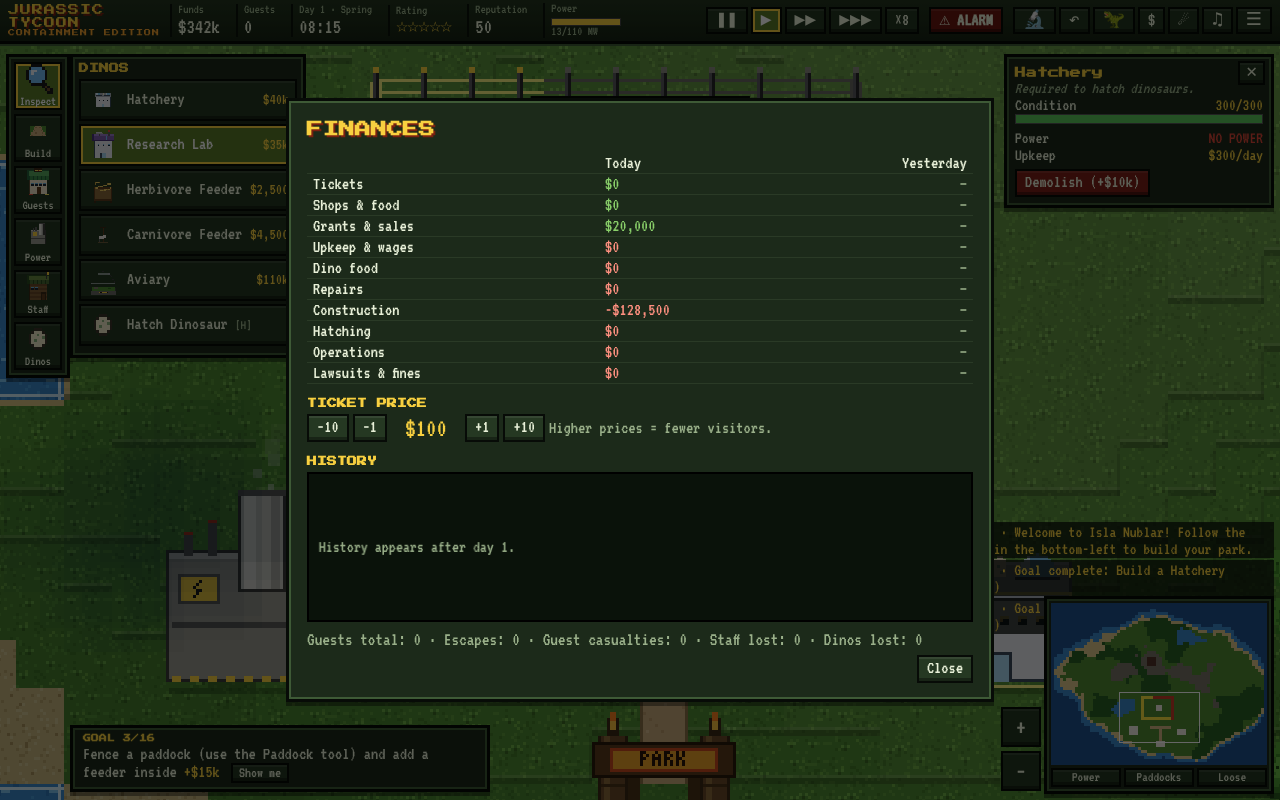
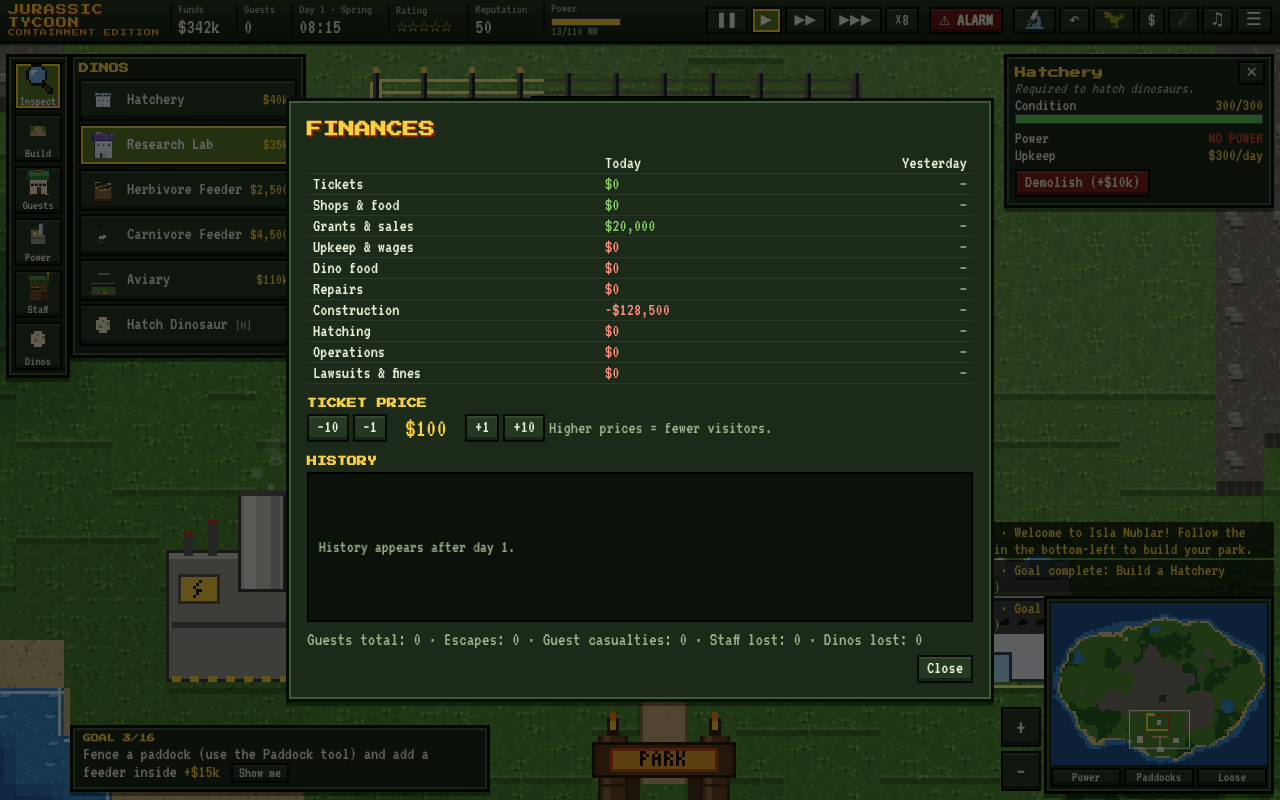
Bigger islands: Small / Medium / Large map sizes
New islands default to Medium (96x72, about 1.8x the old area), with
Small (the original 72x54) and Large (128x96) on the New Island menu.
Scenarios and the tutorial keep the size they were balanced on. Saves
record the size; old saves load as Small. Earthquakes scale their fence
hits with island area.

Touch: only the map captures touch gestures now, so menus, panels and
the title screen scroll on phones; the title screen fits short
landscape screens.

Claude-Session: https://claude.ai/code/session_01D3uayqUPTMGYZAUFzG3kYH

diff --git a/src/main.js b/src/main.js
@@ -39,7 +39,7 @@ function unb64(str, Type) { const s = atob(str); const u8 = new Uint8Array(s.len
 function serialize(g) {
   const w = g.world;
   return JSON.stringify({
-    v: 1, sph: g.secPerHour, research: { done: [...g.research.done], active: g.research.active }, breedOff: !!g.breedingOff, seed: g.seed, diff: g.difficulty, scen: g.scenario || null, scenState: g.scenarioState || null, money: g.money, time: g.time, rep: g.reputation, ticket: g.ticket, goalIdx: g.goalIdx, sandbox: !!g.sandbox,
+    v: 1, size: g.mapSize, sph: g.secPerHour, research: { done: [...g.research.done], active: g.research.active }, breedOff: !!g.breedingOff, seed: g.seed, diff: g.difficulty, scen: g.scenario || null, scenState: g.scenarioState || null, money: g.money, time: g.time, rep: g.reputation, ticket: g.ticket, goalIdx: g.goalIdx, sandbox: !!g.sandbox,
     stats: g.stats, history: g.history, deathLog: g.deathLog, auto: g.events.auto, nextDay: g.events.nextDay, start: g.start,
     terrain: b64(w.terrain), fence: b64(w.fence), fenceOrig: b64(w.fenceOrig), path: b64(w.path), track: b64(w.track), fenceHp: b64(new Uint8Array(w.fenceHp.buffer)),
     buildings: Array.from(w.buildings.values()).map((b) => ({ type: b.type, x: b.x, y: b.y, hp: b.hp, visitors: b.visitors, revenue: b.revenue || 0 })),
@@ -53,7 +53,8 @@ function saveGame(g) {
 
 function loadGame(json) {
   const s = JSON.parse(json);
-  const g = new Game(s.seed, { skipSetup: true, difficulty: s.diff });
+  // saves from before island sizes existed are all 'small'
+  const g = new Game(s.seed, { skipSetup: true, difficulty: s.diff, size: s.size || 'small' });
   const w = g.world;
   w.terrain.set(unb64(s.terrain, Uint8Array));
   w.fence.set(unb64(s.fence, Uint8Array));
@@ -231,6 +232,8 @@ function boot() {
   // browsers only allow audio after a user gesture
   const kick = () => { if (SFX.wantMusic && !SFX.muted) SFX.startMusic(); document.getElementById('sndBtn').textContent = SFX.muted ? '✕' : SFX.musicOn ? '♫' : '♪'; window.removeEventListener('pointerdown', kick); };
   window.addEventListener('pointerdown', kick);
+  // iOS ignores user-scalable=no: stop page pinch-zoom so pinches only zoom the map
+  document.addEventListener('gesturestart', (e) => e.preventDefault());
   window.addEventListener('resize', () => {
     if (RENDER) { RENDER.resize(window.innerWidth, window.innerHeight); UIX.clampCam(); }
     if (titleAnim) startTitleAnim();
@@ -244,7 +247,7 @@ function boot() {
     SFX.play('click');
     document.querySelector('#title .menu').hidden = false;
     document.getElementById('diffMenu').hidden = true;
-    startGame({ difficulty: b.dataset.diff, dayLength: window.currentDayLength(), seed: parseSeed(document.getElementById('seedIn').value) || undefined });
+    startGame({ difficulty: b.dataset.diff, dayLength: window.currentDayLength(), size: window.currentMapSize(), seed: parseSeed(document.getElementById('seedIn').value) || undefined });
   };
   document.getElementById('btnScen').onclick = () => {
     SFX.ensure(); SFX.play('click');
@@ -267,9 +270,18 @@ function boot() {
   showLen();
   dlb.onclick = () => { dayLen = lens[(lens.indexOf(dayLen) + 1) % 3]; try { localStorage.setItem('jt_daylen', dayLen); } catch (e) { /* storage unavailable */ } showLen(); SFX.play('click'); };
   window.currentDayLength = () => dayLen;
+  const sizes = Object.keys(MAP_SIZES);
+  let mapSize = 'medium';
+  try { mapSize = localStorage.getItem('jt_mapsize') || 'medium'; } catch (e) { /* storage unavailable */ }
+  if (!MAP_SIZES[mapSize]) mapSize = 'medium';
+  const msb = document.getElementById('mapSizeBtn');
+  const showSize = () => { const m = MAP_SIZES[mapSize]; msb.innerHTML = `ISLAND SIZE: ${m.label}<br><small style="font-size:8px;color:#9ab08a">${m.desc} · ${m.w}×${m.h}</small>`; };
+  showSize();
+  msb.onclick = () => { mapSize = sizes[(sizes.indexOf(mapSize) + 1) % sizes.length]; try { localStorage.setItem('jt_mapsize', mapSize); } catch (e) { /* storage unavailable */ } showSize(); SFX.play('click'); };
+  window.currentMapSize = () => mapSize;
   document.getElementById('diffBack').onclick = () => { document.querySelector('#title .menu').hidden = false; document.getElementById('diffMenu').hidden = true; };
   document.getElementById('btnTut').onclick = () => { SFX.ensure(); SFX.play('click'); startGame({ tutorial: true, difficulty: 'easy' }); };
-  document.getElementById('btnSandbox').onclick = () => { SFX.ensure(); SFX.play('click'); startGame({ sandbox: true }); };
+  document.getElementById('btnSandbox').onclick = () => { SFX.ensure(); SFX.play('click'); startGame({ sandbox: true, size: window.currentMapSize() }); };
   document.getElementById('btnContinue').onclick = () => { SFX.ensure(); if (!loadGameFromStorage()) { startGame(); } };
   document.getElementById('btnHelp').onclick = () => {
     if (!UIX) { setActiveGame(new Game(1)); }

diff --git a/index.html b/index.html
@@ -25,8 +25,10 @@
 * { box-sizing: border-box; }
 [hidden] { display: none !important; }
 html, body { margin: 0; height: 100%; overflow: hidden; background: var(--bg); color: var(--text);
-  font-family: 'VT323', 'Courier New', monospace; font-size: 18px; user-select: none; -webkit-user-select: none; touch-action: none; }
-#view { position: absolute; inset: 0; width: 100%; height: 100%; image-rendering: pixelated; cursor: crosshair; display: block; }
+  font-family: 'VT323', 'Courier New', monospace; font-size: 18px; user-select: none; -webkit-user-select: none; }
+#view { position: absolute; inset: 0; width: 100%; height: 100%; image-rendering: pixelated; cursor: crosshair; display: block; touch-action: none; }
+/* only the map takes over touch gestures; menus and panels scroll normally */
+#minimap, #zoomBtns, #topbar, #toolbar { touch-action: manipulation; }
 .px { font-family: 'Press Start 2P', monospace; }
 .panel { background: var(--panel); border: 3px solid var(--edge); box-shadow: inset 0 0 0 2px var(--hi), 0 4px 0 rgba(0,0,0,0.4); }
 button { font-family: 'VT323', monospace; font-size: 18px; color: var(--text); background: var(--panel2); border: 2px solid var(--edge);
@@ -173,9 +175,9 @@ table.fin td { padding: 1px 6px; border-bottom: 1px solid #2a3a26; }
 table.fin td:last-child { text-align: right; }
 
 /* title */
-#title { position: absolute; inset: 0; z-index: 50; display: flex; align-items: center; justify-content: center; flex-direction: column;
+#title { position: absolute; inset: 0; z-index: 50; display: flex; align-items: center; justify-content: safe center; flex-direction: column; overflow-y: auto;
   background: radial-gradient(ellipse at center, #1e3a1a 0%, #0a120a 75%); }
-#title canvas#tbg { position: absolute; inset: 0; width: 100%; height: 100%; image-rendering: pixelated; opacity: 0.85; }
+#title canvas#tbg { position: fixed; inset: 0; width: 100%; height: 100%; image-rendering: pixelated; opacity: 0.85; }
 #title .tbox { position: relative; text-align: center; padding: 22px 26px; max-width: 92vw; }
 #title h1 { font-family: 'Press Start 2P'; font-size: clamp(20px, 5vw, 42px); color: var(--gold); margin: 0; text-shadow: 4px 4px 0 #7a2010, 0 0 30px rgba(248,160,40,0.4); letter-spacing: 2px; }
 #title .tag2 { font-family: 'Press Start 2P'; font-size: clamp(8px, 1.5vw, 11px); color: var(--orange); margin: 10px 0 18px; }
@@ -229,6 +231,12 @@ table.fin td:last-child { text-align: right; }
   #tut { left: 56px; bottom: 4px; font-size: 15px; width: calc(100vw - 260px); max-height: 50vh; overflow-y: auto; }
   #toasts { top: auto; bottom: 60px; }
   #modal .box { max-height: 96vh; padding: 10px 12px; }
+  #title .tbox { padding: 10px 16px; }
+  #title h1 { font-size: 20px; }
+  #title .tag2 { margin: 6px 0 10px; }
+  #title .menu { gap: 5px; }
+  #title .menu button { padding: 6px 12px; font-size: 10px; }
+  #title .credits { margin-top: 8px; }
 }
 </style>
 </head>
@@ -301,6 +309,7 @@ table.fin td:last-child { text-align: right; }
       <button data-diff="normal">STANDARD<br><small style="font-size:8px;color:#9ab08a">THE INTENDED EXPERIENCE</small></button>
       <button data-diff="chaos">CHAOS THEORY<br><small style="font-size:8px;color:#9ab08a">DISASTERS EVERY DAY OR TWO</small></button>
       <div style="display:flex;gap:6px;align-items:center;justify-content:center;font-size:18px"><label for="seedIn">Island code</label><input id="seedIn" placeholder="random" maxlength="8" style="font-family:'Press Start 2P';font-size:11px;width:150px;padding:6px;background:#0a120a;color:var(--gold);border:2px solid var(--edge);text-transform:uppercase"></div>
+      <button id="mapSizeBtn">ISLAND SIZE: MEDIUM</button>
       <button id="dayLenBtn">DAY LENGTH: NORMAL</button>
       <button id="diffBack">BACK</button>
     </div>

diff --git a/src/ui-panels.js b/src/ui-panels.js
@@ -290,7 +290,7 @@ class UIPanels {
       <button data-m="resume">Resume</button><button data-m="save">Save park</button><button data-m="load" ${has ? '' : 'disabled'}>Load saved park</button>
       <button data-m="advisor">Advisor tips: ${this.game.advisorOn === false ? 'OFF' : 'ON'}</button>
       <button data-m="breed">Breeding: ${this.game.breedingOff ? 'PREVENTED (lysine contingency)' : 'ALLOWED'}</button>
-      <button data-m="seed" title="Share this code so a friend can play the same island">Island code: ${seedCode(this.game.seed)} (copy)</button>
+      <button data-m="seed" title="Share this code so a friend can play the same island">Island code: ${seedCode(this.game.seed)}${this.game.mapSize !== 'medium' ? ' · ' + MAP_SIZES[this.game.mapSize].label.toLowerCase() : ''} (copy)</button>
       <button data-m="wheel" title="What scrolling does on the map">Scroll: ${{ auto: 'AUTO (mouse wheel zooms, trackpad pans)', zoom: 'ZOOM', pan: 'PAN (pinch or +/− to zoom)' }[this.wheelMode]}</button>
       <button data-m="audio">Sound settings</button>
       <button data-m="help">How to play</button><button data-m="new" class="danger">New island (lose progress)</button></div>`;

diff --git a/src/events.js b/src/events.js
@@ -63,7 +63,9 @@ class Events {
       this.quakeTick = (this.quakeTick || 0) - dt;
       if (this.quakeTick <= 0) {
         this.quakeTick = 0.45;
-        for (let k = 0; k < 14; k++) {
+        // scale the random fence hits with island area so big islands shake as hard
+        const hits = Math.round(14 * (w.W * w.H) / (72 * 54));
+        for (let k = 0; k < hits; k++) {
           const x = randi(1, w.W - 2), y = randi(1, w.H - 2);
           const j = w.idx(x, y);
           if (isSolidFence(w.fence[j])) g.damageFence(x, y, randf(15, 45), null);

diff --git a/src/game.js b/src/game.js
@@ -27,7 +27,10 @@ class Game {
   constructor(seed, opts = {}) {
     this.seed = seed;
     RNG = mulberry32(seed ^ 0x9e3779b9);
-    this.world = new World(seed);
+    // scenarios and the tutorial keep the island size they were balanced on
+    this.mapSize = MAP_SIZES[opts.size] ? opts.size : opts.scenario || opts.tutorial ? 'small' : 'medium';
+    const ms = MAP_SIZES[this.mapSize];
+    this.world = new World(seed, ms.w, ms.h);
     this.world.generate();
     this.events = new Events(this);
     this.research = new ResearchState(this);

diff --git a/src/data.js b/src/data.js
@@ -4,6 +4,12 @@
 const TILE = 16;
 const MAP_W = 72;
 const MAP_H = 54;
+// Island sizes in tiles. Scenarios and the tutorial are tuned for 'small'.
+const MAP_SIZES = {
+  small: { w: 72, h: 54, label: 'SMALL', desc: 'THE CLASSIC ISLAND' },
+  medium: { w: 96, h: 72, label: 'MEDIUM', desc: 'ROOM FOR A BIG PARK' },
+  large: { w: 128, h: 96, label: 'LARGE', desc: 'A SPRAWLING ISLAND' },
+};
 
 // Terrain ids
 const T_DEEP = 0, T_WATER = 1, T_SAND = 2, T_GRASS = 3, T_FOREST = 4, T_ROCK = 5, T_LAVA = 6, T_BASALT = 7, T_VOLCANO = 8;

diff --git a/src/render.js b/src/render.js
@@ -24,6 +24,12 @@ class Renderer {
 
   setGame(game) {
     this.game = game;
+    const W = game.world.W * TILE, H = game.world.H * TILE;
+    if (this.cache[0][0].width !== W || this.cache[0][0].height !== H) {
+      this.cache = [makeCanvas(W, H), makeCanvas(W, H)];
+      this.miniC = null; this.clouds = null; this.flyers = null;
+    }
+    this.miniImg = false;
     game.world.dirtyTerrain = true;
   }
 

diff --git a/src/world.js b/src/world.js
@@ -2,9 +2,9 @@
 'use strict';
 
 class World {
-  constructor(seed) {
+  constructor(seed, w = MAP_W, h = MAP_H) {
     this.seed = seed;
-    this.W = MAP_W; this.H = MAP_H;
+    this.W = w; this.H = h;
     const N = this.W * this.H;
     this.terrain = new Uint8Array(N);
     this.variant = new Uint8Array(N);
